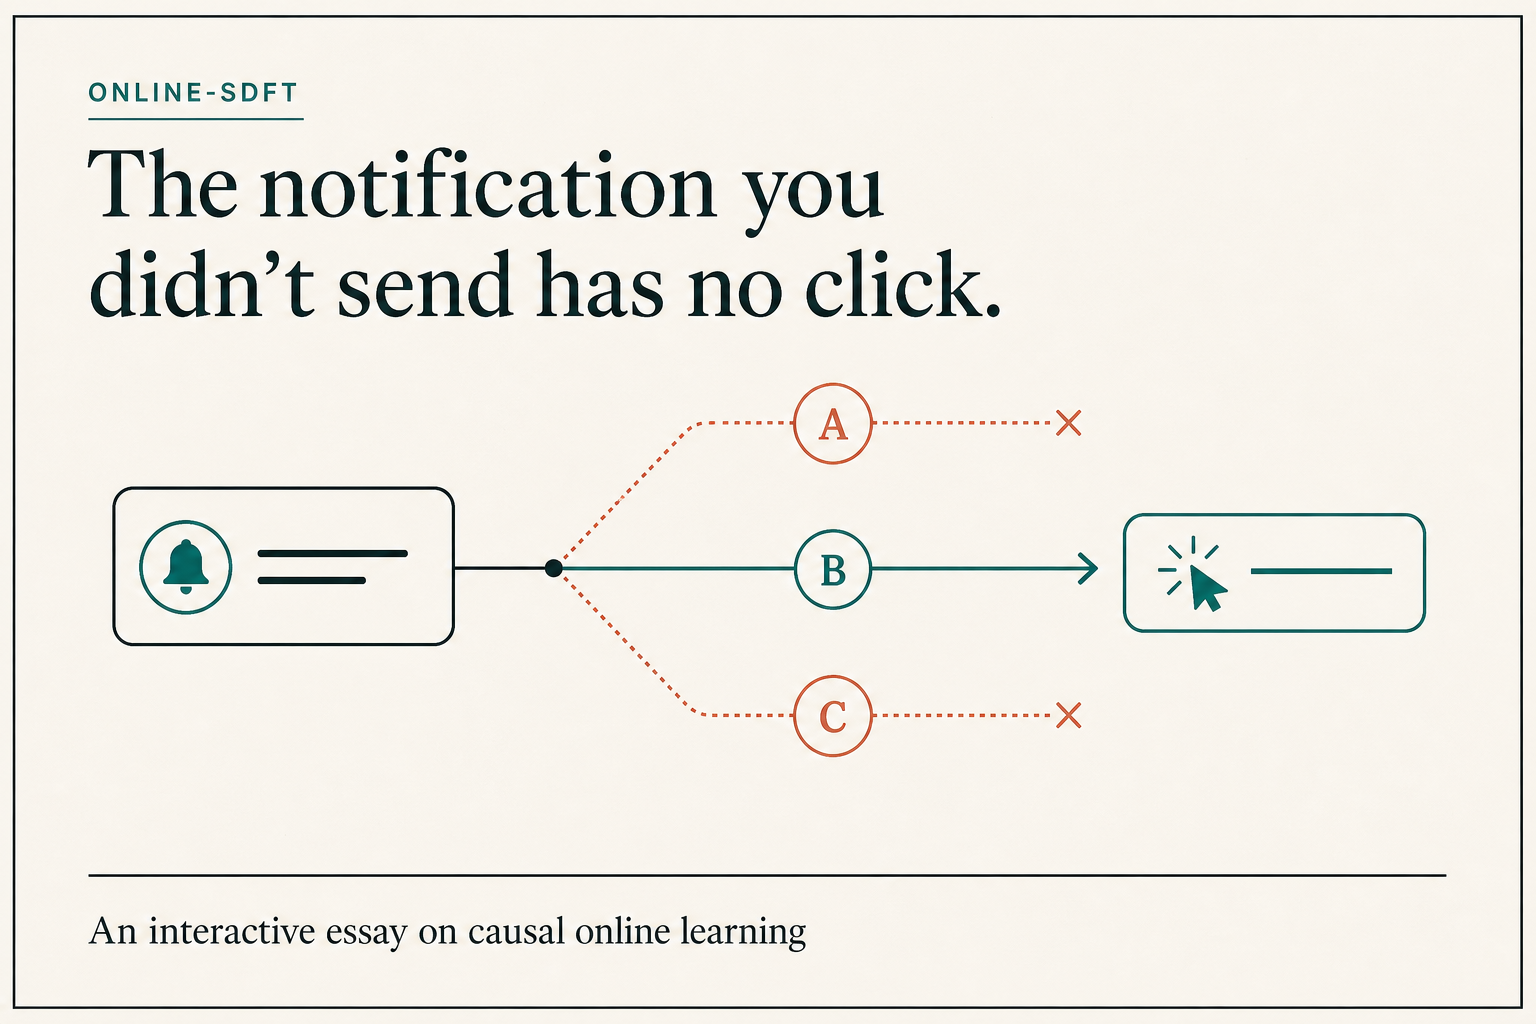
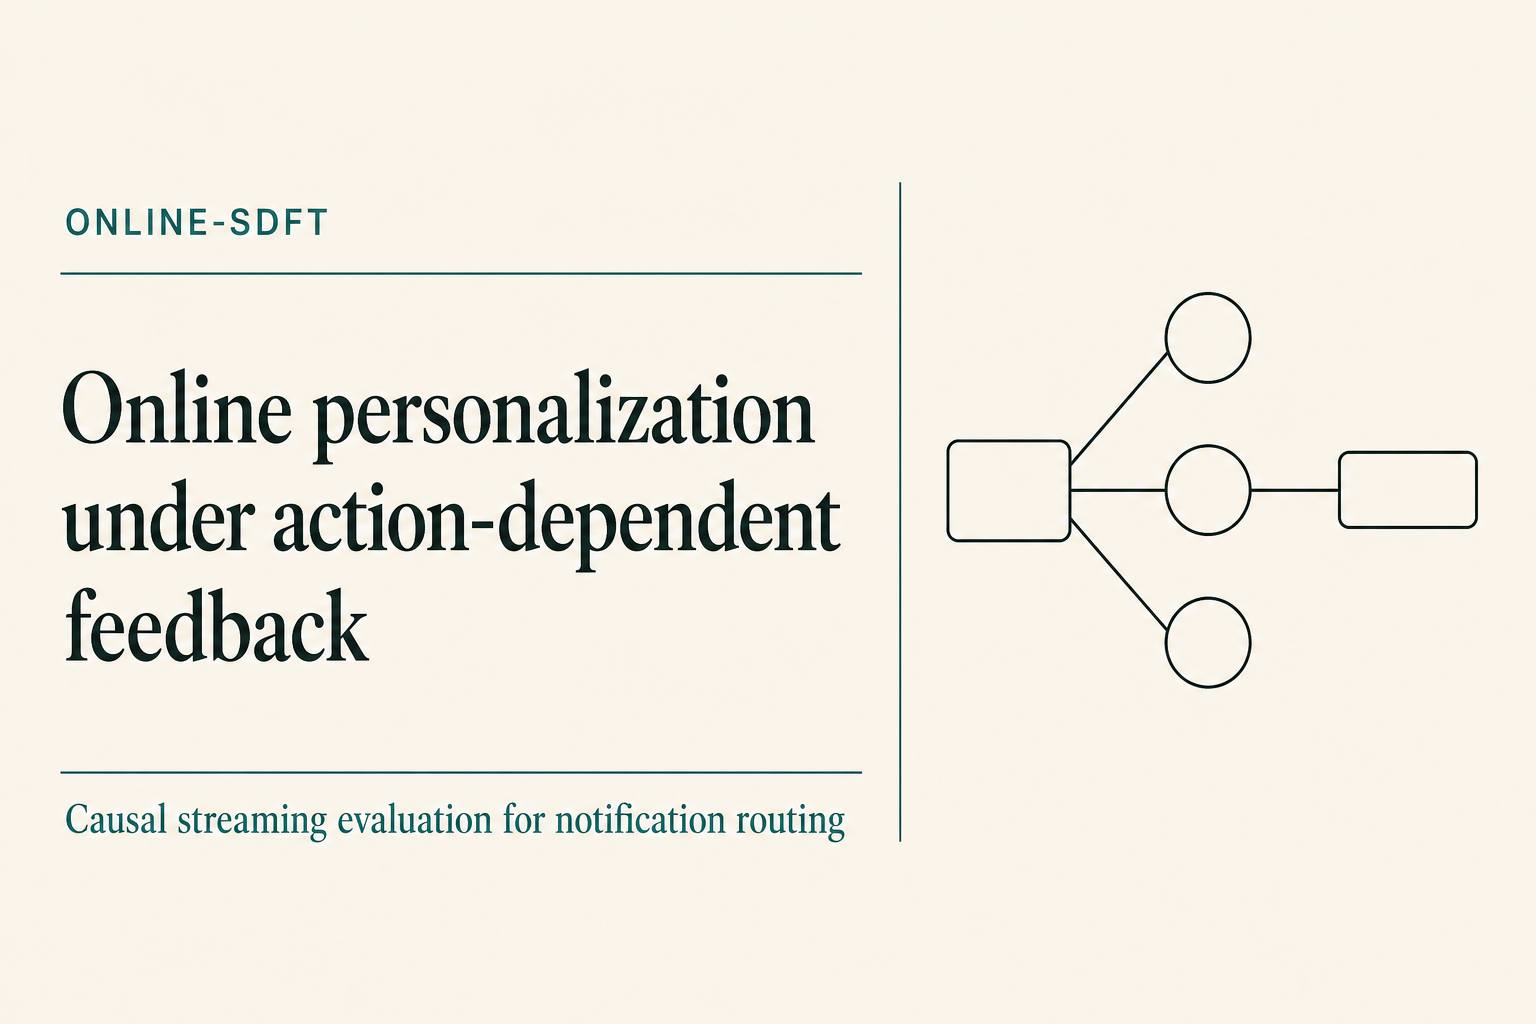
Make article copy more professional

diff --git a/website/index.html b/website/index.html
@@ -7,17 +7,17 @@
   <meta name="description" content="A visual, interactive essay about causal online learning for personalized notification routing with Liquid AI's LFM and Online-SDFT.">
   <link rel="canonical" href="https://lin826.github.io/Online-SFT-Demo/">
   <meta property="og:type" content="article">
-  <meta property="og:title" content="The notification you didn't send has no click">
-  <meta property="og:description" content="An interactive essay about learning from one causal stream with Online-SDFT.">
+  <meta property="og:title" content="Online personalization under action-dependent feedback">
+  <meta property="og:description" content="An interactive causal evaluation of Online-SDFT for notification routing.">
   <meta property="og:url" content="https://lin826.github.io/Online-SFT-Demo/">
   <meta property="og:image" content="https://lin826.github.io/Online-SFT-Demo/assets/og.png">
   <meta property="og:image:width" content="1536">
   <meta property="og:image:height" content="1024">
   <meta name="twitter:card" content="summary_large_image">
-  <meta name="twitter:title" content="The notification you didn't send has no click">
-  <meta name="twitter:description" content="A causal online learning experiment with a real on-device language model.">
+  <meta name="twitter:title" content="Online personalization under action-dependent feedback">
+  <meta name="twitter:description" content="An interactive causal evaluation of Online-SDFT for notification routing.">
   <meta name="twitter:image" content="https://lin826.github.io/Online-SFT-Demo/assets/og.png">
-  <title>The notification you didn't send has no click · Online-SDFT</title>
+  <title>Online personalization under action-dependent feedback · Online-SDFT</title>
   <link rel="stylesheet" href="styles.css">
   <script src="app.js" defer></script>
 </head>
@@ -39,9 +39,9 @@
   <main id="article">
     <article>
       <header class="article-hero" id="top">
-        <p class="article-kicker">An interactive research note · August 2026</p>
-        <h1>The notification you didn’t send has no click.</h1>
-        <p class="dek">How can a small language model personalize itself online when it gets one action, one outcome, and no second chance? We built a causal notification-routing stream to find out.</p>
+        <p class="article-kicker">Interactive research report · August 2026</p>
+        <h1>Online personalization under action-dependent feedback.</h1>
+        <p class="dek">We evaluate how a small language model can adapt online when each request permits one action and reveals only the outcome produced by that action.</p>
         <div class="byline">
           <span>Online-SDFT Demo</span>
           <span>12 min read</span>
@@ -63,11 +63,11 @@
             </div>
             <div class="observed-outcome"><span class="outcome-pulse" aria-hidden="true"></span><strong>Observed</strong><small>clicked after 8 s</small></div>
           </div>
-          <figcaption><b>Figure 1.</b> The model commits to one route. Only that route produces factual feedback; the other two outcomes never happen.</figcaption>
+          <figcaption><b>Figure 1.</b> The policy selects one route. Feedback is observed only for the executed route; outcomes for the two unselected routes remain counterfactual.</figcaption>
         </figure>
 
         <div class="abstract">
-          <p class="abstract-label">In one paragraph</p>
+          <p class="abstract-label">Summary</p>
           <p>We compare six ways to adapt a real 230M-parameter Liquid language model during a drifting stream of notifications. Unlike a batch dataset, every decision changes what can be observed next. Online-SDFT lets the student act without privileged information, then distills a post-decision teacher’s <em>distribution</em> in tiny LoRA updates. Across three paired streams, it reaches <strong>64.72% online accuracy</strong> and <strong>36.24 cumulative regret</strong>—measured while learning, not after.</p>
         </div>
       </header>
@@ -75,8 +75,8 @@
       <div class="article-layout">
         <aside class="toc" aria-label="On this page">
           <p>On this page</p>
-          <a href="#problem">The missing outcome</a>
-          <a href="#play">Play one round</a>
+          <a href="#problem">Action-dependent feedback</a>
+          <a href="#play">Interactive decision</a>
           <a href="#bandit">Bandit formulation</a>
           <a href="#method">Online-SDFT</a>
           <a href="#baselines">Six learners</a>
@@ -87,33 +87,33 @@
 
         <div class="article-body">
           <section class="essay-section" id="problem">
-            <p class="section-number">01 · The missing outcome</p>
-            <h2>Silence is an action, not a label.</h2>
-            <p class="lead">Suppose your phone receives a social notification during an on-call shift. The router chooses <em>archive</em>, so nothing appears. Ten minutes later, the user opens the app. Was the silent choice good? Perhaps. But we cannot also know whether an immediate alert would have been clicked, dismissed, or resented.</p>
-            <p>A normal supervised dataset often stores a row and a “correct” route. That makes every route look observable. Production is harsher: the model chooses one route, reality executes it, and the alternatives become counterfactuals.</p>
+            <p class="section-number">01 · Action-dependent feedback</p>
+            <h2>Notification routing produces partially observed outcomes.</h2>
+            <p class="lead">Consider a social notification that arrives during an on-call shift. If the router archives it, no notification is displayed. A later organic app open is observable, but the response to an immediate push or delayed digest is not.</p>
+            <p>A supervised dataset may associate each context with a preferred route, implicitly treating all alternatives as observable. In deployment, the policy selects one route, the environment executes it, and outcomes under the unselected routes remain counterfactual.</p>
 
             <aside class="margin-note">
               <span>Why it matters</span>
-              Training on the click attached to an unsent notification would leak an impossible alternate outcome into the learner.
+              Training on a click associated with an unexecuted route would introduce counterfactual leakage into the learner.
             </aside>
 
             <blockquote>
-              <p>There is no click for the notification you did not send.</p>
-              <footer>The causal constraint behind the benchmark</footer>
+              <p>The learner must not receive outcomes associated with actions it did not execute.</p>
+              <footer>Causal information constraint</footer>
             </blockquote>
 
-            <p>Our environment therefore simulates an interaction, not a table lookup. It reveals the context, accepts exactly one action, samples only that action’s outcome, and then moves on. The student is judged on the decisions it actually served.</p>
+            <p>The environment therefore simulates sequential interaction rather than performing a labeled-row lookup. It reveals the context, accepts one action, samples only that action’s outcome, and advances the stream. Evaluation uses the decisions served by the policy before each update.</p>
           </section>
 
           <section class="essay-section" id="play">
-            <p class="section-number">02 · Try the decision yourself</p>
-            <h2>You get one chance. What should the phone do?</h2>
-            <p>The mini-lab below hides the user’s latent state, just as a deployed router would. Pick a route first. Only then will the route-specific feedback, post-decision teacher, and evaluator’s regret appear.</p>
+            <p class="section-number">02 · Interactive decision</p>
+            <h2>Select a route before observing feedback.</h2>
+            <p>The example below withholds latent user state at decision time, matching the deployed information boundary. After a route is selected, it reveals the route-specific feedback, post-decision teacher distribution, and evaluator-only regret.</p>
 
             <div class="interactive-bleed decision-lab" id="decision-lab">
               <div class="lab-topline">
                 <div>
-                  <p class="lab-eyebrow">Interactive sandbox</p>
+                  <p class="lab-eyebrow">Interactive causal example</p>
                   <h3>Notification <span id="lab-round">#1</span></h3>
                 </div>
                 <button class="quiet-button" id="new-event" type="button">New notification <span aria-hidden="true">↻</span></button>
@@ -146,7 +146,7 @@
 
               <div class="lab-pending" id="lab-pending" role="status">
                 <span class="sealed-icon" aria-hidden="true">?</span>
-                <p><strong>The outcome is still unknowable.</strong> Choose A, B, or C to execute one route.</p>
+                <p><strong>No outcome is available before execution.</strong> Select A, B, or C to execute one route.</p>
               </div>
 
               <div class="lab-reveal" id="lab-reveal" hidden aria-live="polite">
@@ -166,13 +166,13 @@
                   <p id="regret-detail">Best attainable utility minus chosen-route utility.</p>
                 </article>
               </div>
-              <p class="lab-disclaimer">This pedagogical sandbox uses a simplified deterministic utility model. Published numbers below come from the repository’s full stochastic simulator.</p>
+              <p class="lab-disclaimer">This illustrative example uses a simplified deterministic utility model. Published results below use the repository’s full stochastic simulator.</p>
             </div>
           </section>
 
           <section class="essay-section" id="bandit">
             <p class="section-number">03 · The formal problem</p>
-            <h2>A contextual bandit in one line.</h2>
+            <h2>Contextual-bandit formulation.</h2>
             <p>At round <em>t</em>, the router observes a context <em>x<sub>t</sub></em>, chooses one action <em>a<sub>t</sub></em>, and receives only the outcome caused by that action. Then the next notification arrives.</p>
 
             <div class="equation-card" role="img" aria-label="At time t, observe context, choose action, receive action-specific outcome and reward, then update the policy">
@@ -190,18 +190,18 @@
 
             <aside class="margin-note">
               <span>Prequential evaluation</span>
-              “Predict, then learn” measures service quality during adaptation. There is no held-out test set and no replay of the same request.
+              Prequential evaluation measures service quality during adaptation: each action is scored before its feedback or update. The protocol has no held-out test set and does not replay requests.
             </aside>
           </section>
 
           <section class="essay-section" id="method">
             <p class="section-number">04 · Online-SDFT</p>
-            <h2>Let the student act. Let the teacher explain afterward.</h2>
-            <p>Typical distillation often begins with a privileged demonstration and asks a student to imitate it. That would cheat here. Online-SDFT reverses the order: the unprivileged student rolls out its own route first; a teacher sees legal post-decision evidence second; a tiny LoRA adapter updates third.</p>
+            <h2>Student action precedes teacher feedback.</h2>
+            <p>Standard distillation may begin with a privileged demonstration and ask a student to imitate it. That ordering would violate this setting’s serving-time information boundary. Online-SDFT instead requires the unprivileged student to generate its route first; the teacher receives permitted post-decision evidence second; and a small LoRA adapter updates third.</p>
 
             <div class="interactive-bleed round-explorer" id="round-explorer">
               <div class="explorer-header">
-                <div><p class="lab-eyebrow">Step through one causal round</p><h3 id="step-title">1. Observe public context</h3></div>
+                <div><p class="lab-eyebrow">Inspect one causal round</p><h3 id="step-title">1. Observe public context</h3></div>
                 <button class="play-button" id="round-play" type="button" aria-label="Play the online round"><span aria-hidden="true">▶</span> Play</button>
               </div>
               <div class="round-stage" data-phase="observe">
@@ -235,12 +235,12 @@
     q_t = teacher(x_t, a_t, z_t, feedback_t)
     student.update_small_batch(q_t)         <em># soft target, online</em></code></pre>
 
-            <p>The teacher distribution <em>q<sub>t</sub></em> is richer than a scalar reward but weaker than an oracle. It can say, for example, “later is probably right, archive is plausible, interrupt is unlikely,” allowing learning even when a user gives no explicit reward.</p>
+            <p>The teacher distribution <em>q<sub>t</sub></em> contains more information than a scalar reward but does not expose the evaluator’s oracle. It may assign most probability to <em>later</em>, some to <em>archive</em>, and little to <em>interrupt</em>, enabling an update even when there is no explicit user reward.</p>
           </section>
 
           <section class="essay-section" id="baselines">
             <p class="section-number">05 · What the six learners know</p>
-            <h2>Same model, different learning signal.</h2>
+            <h2>One model, six adaptation mechanisms.</h2>
             <p>Every method uses the same Liquid LFM action-token probabilities. The comparison changes what can persist across rounds—not what is visible before the current action.</p>
 
             <div class="method-explorer" id="method-explorer">
@@ -270,7 +270,7 @@
             <div class="case-study">
               <div>
                 <p class="case-label">A real trace · seed 0 · decision 148</p>
-                <h3>Recent memory says interrupt. Similar memory says later.</h3>
+                <h3>Example selection changes the LFM decision.</h3>
                 <p>For the same low-urgency social notification, ICL’s last 12 examples contain seven “interrupt” labels. The frozen LFM outputs A with 51.27%. RAG retrieves similar social, on-call contexts instead and outputs B with 81.36%—the evaluator’s preferred route.</p>
               </div>
               <div class="trace-compare">
@@ -283,7 +283,7 @@
 
           <section class="essay-section" id="results">
             <p class="section-number">06 · Experiment</p>
-            <h2>The model is evaluated while it changes.</h2>
+            <h2>Prequential evaluation scores the policy during adaptation.</h2>
             <p>Each seed is one 240-event stream: 80 weekday decisions, then 80 on-call decisions, then 80 off-hours decisions. All methods receive paired streams and start fresh. Each action is scored before its feedback or update.</p>
 
             <div class="regime-ribbon" aria-label="Three sequential stream regimes">
@@ -316,11 +316,11 @@
 
             <figure class="figure-bleed plot-figure">
               <img src="figures/bandit_learning_curves.png" alt="Two learning curves over 240 decisions. Online-SDFT develops the highest running online accuracy and the lowest cumulative regret across the stream.">
-              <figcaption><b>Figure 2.</b> Running online accuracy and cumulative regret. Vertical regime changes make this a moving target, not a stationary test set.</figcaption>
+              <figcaption><b>Figure 2.</b> Running online accuracy and cumulative regret. Vertical markers indicate regime changes in the non-stationary stream.</figcaption>
             </figure>
 
-            <h3 class="subhead">Why does reward-only REINFORCE collapse?</h3>
-            <p>REINFORCE receives one scalar from one rollout. In this simulator, archival silence is often a harmless zero, while an intrusive push can be negative. The policy increasingly chooses <em>archive</em>: locally safe-looking behavior that stalls exploration and accumulates evaluator regret. Online-SDFT can still learn from descriptive teacher feedback when the user does nothing.</p>
+            <h3 class="subhead">Why does reward-only REINFORCE underperform?</h3>
+            <p>REINFORCE receives one scalar from one rollout. In this simulator, archival silence often produces zero reward, while an intrusive push can produce negative reward. The policy increasingly selects <em>archive</em>, a low-variance action that reduces effective exploration and accumulates evaluator regret. Online-SDFT can update from the teacher distribution even when there is no explicit user response.</p>
 
             <figure class="figure-bleed process-gif">
               <img src="figures/online_sdft_process.gif" alt="Animation of the Online-SDFT loop from context to student action, factual outcome, teacher distribution, and small online update.">
@@ -330,19 +330,19 @@
 
           <section class="essay-section" id="limits">
             <p class="section-number">07 · Interpretation</p>
-            <h2>What this experiment does—and does not—show.</h2>
+            <h2>Scope and limitations.</h2>
             <div class="claim-grid">
               <div><span>Supported</span><p>On these three paired simulator streams, Online-SDFT improves the quality of the decisions made during adaptation.</p></div>
               <div><span>Supported</span><p>The implementation preserves the causal order: student rollout, one factual outcome, teacher, then online update.</p></div>
               <div class="caution"><span>Not yet established</span><p>Three seeds are not enough for a broad claim about all users, devices, or drifting environments.</p></div>
               <div class="caution"><span>Not yet established</span><p>The simulator’s utility weights are a declared product model, not a universal measure of notification quality.</p></div>
             </div>
-            <p>The right next step is not a larger held-out test set. It is a larger collection of <em>paired online streams</em>, ablations of the teacher and reward design, and eventually a carefully instrumented real interaction study.</p>
+            <p>Further validation requires more <em>paired online streams</em>, ablations of the teacher and reward design, and a carefully instrumented real interaction study.</p>
           </section>
 
           <section class="essay-section" id="reproduce">
             <p class="section-number">08 · Reproduce it</p>
-            <h2>Inspect every boundary. Replay every decision.</h2>
+            <h2>Audit the information boundaries and reproduce every decision.</h2>
             <p>The notebook is self-contained: simulator, Liquid LFM policy, six learners, animation, prompts, plots, and audit checks live in one file. A Colab T4 GPU is the shortest path to a full rerun.</p>
             <div class="reproduce-card">
               <div>

diff --git a/website/app.js b/website/app.js
@@ -198,7 +198,7 @@ const roundSteps = [
   {
     phase: 'update', title: '5. Update a tiny adapter',
     student: 'LoRA ← q<sub>t</sub><br><small>172,032 parameters</small>', world: '<b>round complete</b><small>advance to xₜ₊₁</small>',
-    explanation: 'One small online update prepares the student for the next, never-repeated notification.',
+    explanation: 'One small online update prepares the student for the next notification in the stream.',
   },
 ];
 let roundStep = 0;
